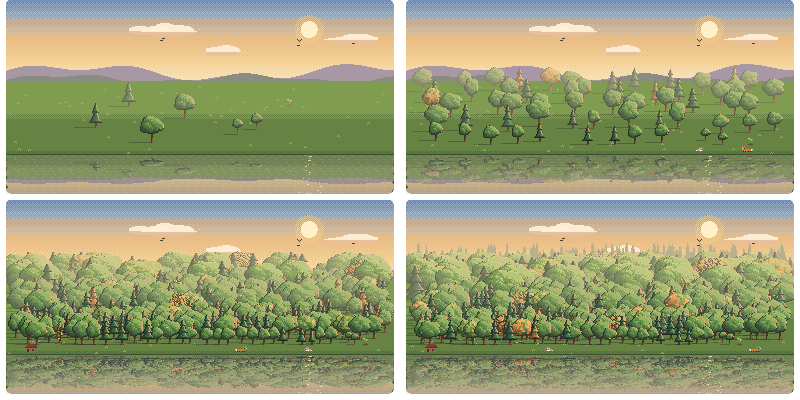
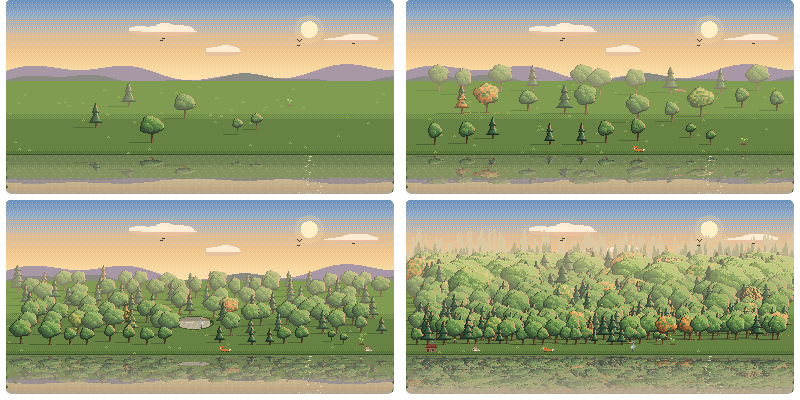
docs: update images

Changed region(s): [[0.0, 0.57, 1.0, 0.99], [0.5, 0.15, 1.0, 0.48]]

diff --git a/docs/ankiweb.html b/docs/ankiweb.html
@@ -1,11 +1,12 @@
 <b>A pixel-art forest that grows from your Anki study history.</b> Every day you learn new cards plants a tree below your deck list. Trees grow as those cards settle into memory, and turn a little yellow when you start to forget them. There is nothing to click and nothing to manage: just study, and watch it grow.
 
-<img src="https://raw.githubusercontent.com/baraklevy20/memory-forest/main/docs/forest.png" alt="A forest of a few hundred days, at golden hour by the lake">
+<div><img src="https://raw.githubusercontent.com/baraklevy20/memory-forest/main/docs/forest.png" alt="A forest of a few hundred days, at golden hour by the lake"></div>
 
 <b>How it works</b>
 
-<img src="https://raw.githubusercontent.com/baraklevy20/memory-forest/main/docs/growth.png" alt="The same forest after a week, two months, a year and three years">
-<i>After a week, two months, a year and three years.</i>
+<div><img src="https://raw.githubusercontent.com/baraklevy20/memory-forest/main/docs/growth.png" alt="The same forest after a week, a month, four months and four years"></div>
+<div><i>After a week, a month, four months and four years.</i></div>
+<div>&nbsp;</div>
 
 Every day you learn new cards, a tree is planted. It starts as a seedling and grows as you come to know those cards: within a few weeks it is a young tree, and the days you know best keep growing for years, into ancient giants. If you start forgetting a day's cards, its tree gets a few yellow leaves, and they turn green again once you relearn them. Trees never die.
 
@@ -13,23 +14,29 @@ So the forest is a picture of what you know: its size is how much you have learn
 
 <b>Presets</b>
 
-<img src="https://raw.githubusercontent.com/baraklevy20/memory-forest/main/docs/animated/golden_lake.gif" alt="Golden hour by the lake">
-<i>Golden hour by the lake</i>
+<div><img src="https://raw.githubusercontent.com/baraklevy20/memory-forest/main/docs/animated/golden_lake.gif" alt="Golden hour by the lake"></div>
+<div><i>Golden hour by the lake</i></div>
+<div>&nbsp;</div>
 
-<img src="https://raw.githubusercontent.com/baraklevy20/memory-forest/main/docs/animated/misty_valley.gif" alt="Misty mountain valley">
-<i>Misty mountain valley</i>
+<div><img src="https://raw.githubusercontent.com/baraklevy20/memory-forest/main/docs/animated/misty_valley.gif" alt="Misty mountain valley"></div>
+<div><i>Misty mountain valley</i></div>
+<div>&nbsp;</div>
 
-<img src="https://raw.githubusercontent.com/baraklevy20/memory-forest/main/docs/animated/aurora.gif" alt="Aurora night">
-<i>Aurora night</i>
+<div><img src="https://raw.githubusercontent.com/baraklevy20/memory-forest/main/docs/animated/aurora.gif" alt="Aurora night"></div>
+<div><i>Aurora night</i></div>
+<div>&nbsp;</div>
 
-<img src="https://raw.githubusercontent.com/baraklevy20/memory-forest/main/docs/animated/lanterns.gif" alt="Lanterns at night">
-<i>Lanterns at night</i>
+<div><img src="https://raw.githubusercontent.com/baraklevy20/memory-forest/main/docs/animated/lanterns.gif" alt="Lanterns at night"></div>
+<div><i>Lanterns at night</i></div>
+<div>&nbsp;</div>
 
-<img src="https://raw.githubusercontent.com/baraklevy20/memory-forest/main/docs/animated/bamboo.gif" alt="Rainy bamboo grove">
-<i>Rainy bamboo grove</i>
+<div><img src="https://raw.githubusercontent.com/baraklevy20/memory-forest/main/docs/animated/bamboo.gif" alt="Rainy bamboo grove"></div>
+<div><i>Rainy bamboo grove</i></div>
+<div>&nbsp;</div>
 
-<img src="https://raw.githubusercontent.com/baraklevy20/memory-forest/main/docs/animated/synthwave.gif" alt="Synthwave">
-<i>Synthwave</i>
+<div><img src="https://raw.githubusercontent.com/baraklevy20/memory-forest/main/docs/animated/synthwave.gif" alt="Synthwave"></div>
+<div><i>Synthwave</i></div>
+<div>&nbsp;</div>
 
 <b>Compatibility and privacy</b>
 <ul><li>Anki 2.1.50 or later, on desktop (Windows, macOS, Linux).</li><li>Everything is computed on your computer from your own review history. The only thing that leaves it is your city's name, and only if you turn on the real weather: it is sent to <a href="https://open-meteo.com">Open-Meteo</a> (free, no account) to look up the forecast.</li></ul>

diff --git a/README.md b/README.md
@@ -11,9 +11,9 @@ nothing to manage: just study, and watch it grow.
 
 ## How it works
 
-![The same forest after a week, two months, a year and three years](docs/growth.png)
+![The same forest after a week, a month, four months and four years](docs/growth.png)
 
-*After a week, two months, a year and three years.*
+*After a week, a month, four months and four years.*
 
 Every day you learn new cards, a tree is planted. It starts as a seedling and grows as
 you come to know those cards: within a few weeks it is a young tree, and the days you know
